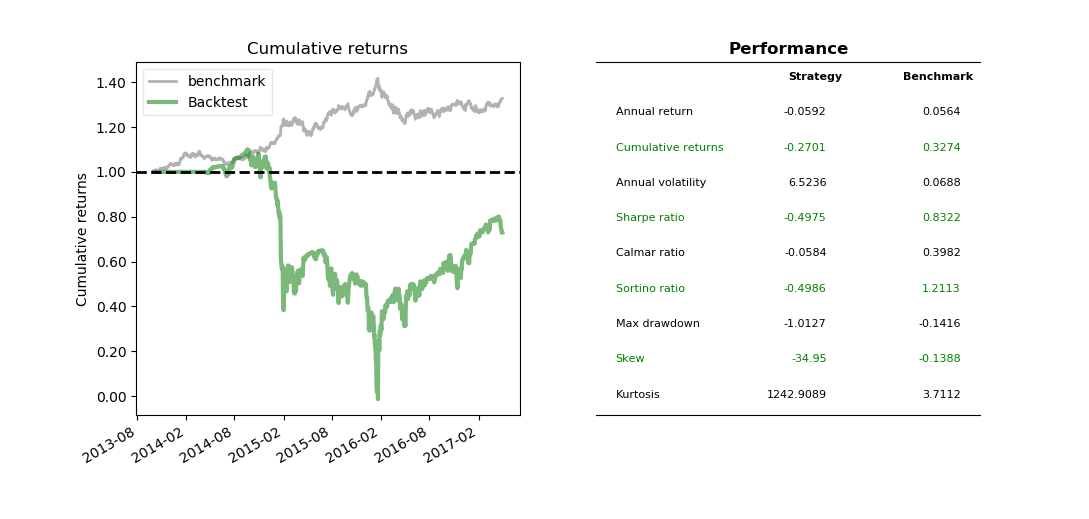
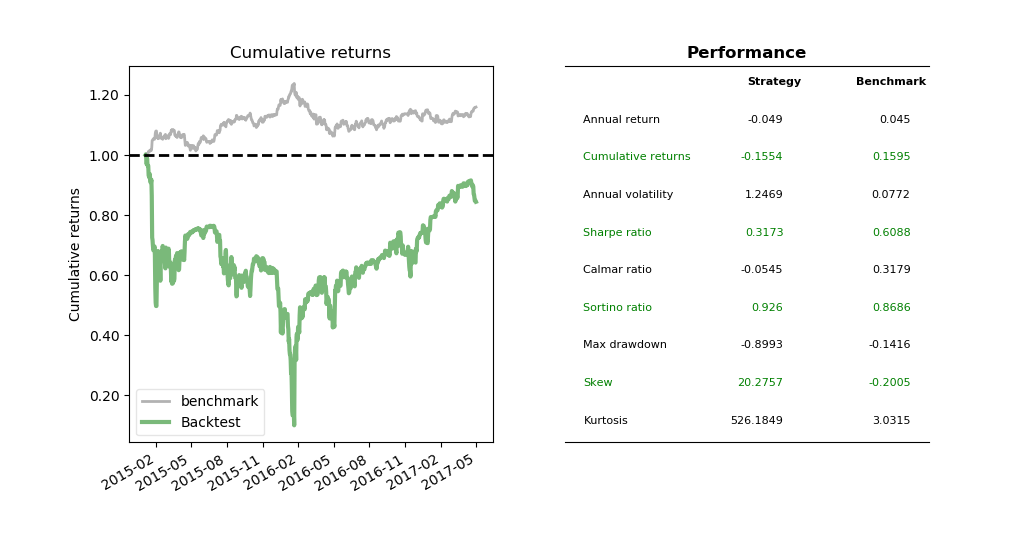
Site updated: 2018-10-04 06:10:59

diff --git a/2018/03/18/mean-reversion/index.html b/2018/03/18/mean-reversion/index.html
@@ -89,7 +89,7 @@
 <meta property="og:locale" content="default">
 <meta property="og:image" content="http://letianzj.github.io/2018/03/18/mean-reversion/usdcad.png">
 <meta property="og:image" content="http://letianzj.github.io/2018/03/18/mean-reversion/simple_linear_scaling.png">
-<meta property="og:updated_time" content="2018-09-28T15:35:51.683Z">
+<meta property="og:updated_time" content="2018-10-04T10:06:28.165Z">
 <meta name="twitter:card" content="summary">
 <meta name="twitter:title" content="Mean Reversion">
 <meta name="twitter:description" content="IntroductionMean reversion processes are widely observed in finance. As opposed to trend following, it assumes that the process has a tendency to revert to its average level over time. This average le">
@@ -398,7 +398,7 @@
 <p>The following code is self-explanatory. It finds rolling z-score and then trades negatively proportional to it.</p>
 <figure class="highlight python"><table><tr><td class="gutter"><pre><span class="line">1</span><br><span class="line">2</span><br><span class="line">3</span><br><span class="line">4</span><br><span class="line">5</span><br><span class="line">6</span><br><span class="line">7</span><br><span class="line">8</span><br><span class="line">9</span><br><span class="line">10</span><br><span class="line">11</span><br><span class="line">12</span><br><span class="line">13</span><br><span class="line">14</span><br><span class="line">15</span><br><span class="line">16</span><br><span class="line">17</span><br><span class="line">18</span><br><span class="line">19</span><br><span class="line">20</span><br><span class="line">21</span><br><span class="line">22</span><br><span class="line">23</span><br><span class="line">24</span><br><span class="line">25</span><br><span class="line">26</span><br></pre></td><td class="code"><pre><span class="line"><span class="function"><span class="keyword">def</span> <span class="title">on_bar</span><span class="params">(self, bar_event)</span>:</span></span><br><span class="line"></span><br><span class="line">    <span class="comment"># retrieve price history up to now</span></span><br><span class="line">    hist_data_to_date = self._data_board.get_hist_price(self.symbols[<span class="number">0</span>], bar_event.bar_end_time())</span><br><span class="line"></span><br><span class="line">    <span class="keyword">if</span> hist_data_to_date.shape[<span class="number">0</span>] &lt; self.lookback_window:</span><br><span class="line">        <span class="keyword">return</span></span><br><span class="line"></span><br><span class="line">    rolling_avg = np.average(hist_data_to_date.iloc[-self.lookback_window:][<span class="string">'Price'</span>])</span><br><span class="line">    rolling_sd = np.std(hist_data_to_date.iloc[-self.lookback_window:][<span class="string">'Price'</span>])</span><br><span class="line">    rolling_z_score = (hist_data_to_date.iloc[<span class="number">-1</span>] - rolling_avg) / rolling_sd</span><br><span class="line">    rolling_z_score = rolling_z_score.values[<span class="number">0</span>]</span><br><span class="line"></span><br><span class="line">    <span class="comment"># size is negatively proportional to z-score</span></span><br><span class="line">    target_size = <span class="number">-1</span> * int(rolling_z_score * <span class="number">10000</span>)  <span class="comment"># integer lots only</span></span><br><span class="line">    lots_to_trade = target_size - self._current_size</span><br><span class="line"></span><br><span class="line">    <span class="keyword">if</span> lots_to_trade != <span class="number">0</span>:</span><br><span class="line">        o = OrderEvent()</span><br><span class="line">        o.full_symbol = self.symbols[<span class="number">0</span>]</span><br><span class="line">        o.order_type = OrderType.MARKET</span><br><span class="line">        o.order_size = lots_to_trade</span><br><span class="line">        print(<span class="string">'&#123;&#125; traded &#123;&#125; on z-score &#123;&#125;'</span>.format(bar_event.bar_end_time(), lots_to_trade, rolling_z_score))</span><br><span class="line">        self.place_order(o)</span><br><span class="line"></span><br><span class="line">    self._current_size = target_size</span><br></pre></td></tr></table></figure>
 <p><img src="simple_linear_scaling.png" align="left" width="100%" height="100%"></p>
-<p>The benchmark is USDCAD exchange rate. It seems that when USD trending up, mean reversion strategies don’t do well in their primitive settings. In the future we’ll use Hidden Markov Chain to improve the performance by detecting if the market is in trending or mena-reverting phase.</p>
+<p>The benchmark is USDCAD exchange rate. It seems that between Oct-2015 and Jan-2016 when USD trending up, mean reversion strategies don’t do well in their primitive settings. It came back right after until Apr-2016 when USD pulled back from 1.45 to 1.25. In the future we’ll use Hidden Markov Chain to improve the performance by detecting if the market is in trending or mean-reverting phase.</p>
 <p>The full code can be found in <a href="https://github.com/EliteQuant/EliteQuant_Python/blob/master/source/strategy/mystrategy/moving_average_cross_strategy.py" target="_blank" rel="noopener">github repo</a>.</p>
 <h2 id="Conclusion"><a href="#Conclusion" class="headerlink" title="Conclusion"></a>Conclusion</h2><p>In sum, this post considers one single time series. Next post we will look at two time series or pairs trading.</p>
 <p><strong>Reference</strong></p>

diff --git a/2018/01/28/elitequant-backtesting/index.html b/2018/01/28/elitequant-backtesting/index.html
@@ -88,8 +88,8 @@
 <meta property="og:description" content="IntroductionElitequant is an open source low latency event driven trading system. This post goes over the structure of its historical backtesting module. I’ll use Elitequant Python as example but the">
 <meta property="og:locale" content="default">
 <meta property="og:image" content="http://letianzj.github.io/2018/01/28/elitequant-backtesting/backtest_structure.png">
-<meta property="og:image" content="http://letianzj.github.io/2018/01/28/elitequant-backtesting/backtest_structure.png">
-<meta property="og:updated_time" content="2018-09-28T14:58:51.103Z">
+<meta property="og:image" content="http://letianzj.github.io/2018/01/28/elitequant-backtesting/moving_average_cross.png">
+<meta property="og:updated_time" content="2018-10-04T10:03:43.924Z">
 <meta name="twitter:card" content="summary">
 <meta name="twitter:title" content="Elitequant Backtesting">
 <meta name="twitter:description" content="IntroductionElitequant is an open source low latency event driven trading system. This post goes over the structure of its historical backtesting module. I’ll use Elitequant Python as example but the">
@@ -391,7 +391,8 @@
 <figure class="highlight python"><table><tr><td class="gutter"><pre><span class="line">1</span><br><span class="line">2</span><br><span class="line">3</span><br><span class="line">4</span><br><span class="line">5</span><br><span class="line">6</span><br><span class="line">7</span><br><span class="line">8</span><br><span class="line">9</span><br><span class="line">10</span><br><span class="line">11</span><br></pre></td><td class="code"><pre><span class="line"><span class="class"><span class="keyword">class</span> <span class="title">StrategyBase</span><span class="params">(metaclass=ABCMeta)</span>:</span></span><br><span class="line">	<span class="function"><span class="keyword">def</span> <span class="title">on_init</span><span class="params">(self, params_dict=None)</span>:</span></span><br><span class="line">		self.initialized = <span class="keyword">True</span></span><br><span class="line"></span><br><span class="line">		<span class="comment"># set params</span></span><br><span class="line">		<span class="keyword">if</span> params_dict <span class="keyword">is</span> <span class="keyword">not</span> <span class="keyword">None</span>:</span><br><span class="line">			<span class="keyword">for</span> key, value <span class="keyword">in</span> params_dict.items():</span><br><span class="line">				<span class="keyword">try</span>:</span><br><span class="line">					self.__setattr__(key, value)</span><br><span class="line">				<span class="keyword">except</span>:</span><br><span class="line">					<span class="keyword">pass</span></span><br></pre></td></tr></table></figure>
 <p>In <a href="https://github.com/EliteQuant/EliteQuant_Python/blob/master/source/backtest_optimization_engine.py" target="_blank" rel="noopener">backtest_optimization_engine</a>, it demos either reading paramater list from config.yaml or setting it directly in code. The advantage of the latter is to allow you construct parameter grids in a loop. The results are sorted by target performance measure. Each backtest is assigned an ID called batch token, which is used to identify its result files in <strong>out_dir</strong> folder.</p>
 <figure class="highlight shell"><table><tr><td class="gutter"><pre><span class="line">1</span><br><span class="line">2</span><br><span class="line">3</span><br></pre></td><td class="code"><pre><span class="line">Params：&#123;'short_window': 50, 'long_window': 100&#125;，Sharpe ratio：0.7771284386050981</span><br><span class="line">Params：&#123;'short_window': 10, 'long_window': 20&#125;，Sharpe ratio：0.7374670421689613</span><br><span class="line">Params：&#123;'short_window': 20, 'long_window': 40&#125;，Sharpe ratio：0.5593737983561646</span><br></pre></td></tr></table></figure>
-<p><img src="backtest_structure.png" align="center" width="80%" height="80%"></p>
+<p>To take a closer look, below is the details from one particular parameter.</p>
+<p><img src="moving_average_cross.png" align="center" width="80%" height="80%"></p>
 <p>Happy trading!</p>
 
       
